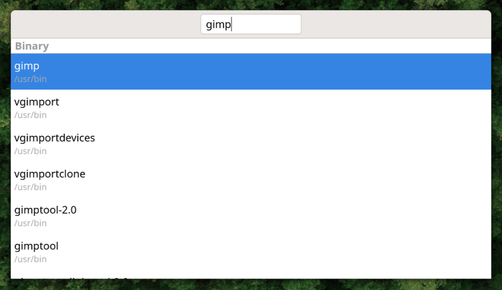
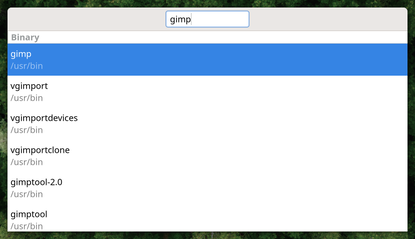
Use CSS for better styling of secondary labels

Changed region(s): [[0.0, 0.0, 1.0, 1.0]]

diff --git a/searchtool_gtk/gui/column_view.py b/searchtool_gtk/gui/column_view.py
@@ -85,10 +85,10 @@ class SearchToolColumnView(Generic[SearchItem], Gtk.ColumnView):
         if list_model.get_pending() == 0:
             GLib.idle_add(self.select_first)
 
-    def column_setup(self, factory: Gtk.SignalListItemFactory, cell: Gtk.ColumnViewCell):  # type: ignore
+    def column_setup(self, factory: Gtk.SignalListItemFactory, cell: Gtk.ColumnViewCell):  # type: ignore[name-defined]
         cell.set_child(SearchToolEntityWidget())
 
-    def column_bind(self, factory: Gtk.SignalListItemFactory, cell: Gtk.ColumnViewCell):  # type: ignore
+    def column_bind(self, factory: Gtk.SignalListItemFactory, cell: Gtk.ColumnViewCell):  # type: ignore[name-defined]
         item = cell.get_item().si
         widget = cell.get_child()
         widget.main_label.set_label(self.mode.get_main_item_label(item))
@@ -97,9 +97,8 @@ class SearchToolColumnView(Generic[SearchItem], Gtk.ColumnView):
         if secondary_text is None:
             widget.secondary_label.set_visible(False)
         else:
-            widget.secondary_label.set_markup(
-                f'<span foreground="darkgray" size="smaller">{GLib.markup_escape_text(secondary_text)}</span>'
-            )
+            widget.secondary_label.set_visible(True)
+            widget.secondary_label.set_label(secondary_text)
 
     def update_filter_text(self, text: str | None):
         self.filter_model.set_filter(SearchToolFilter(self.mode, text) if text is not None else None)

diff --git a/searchtool_gtk/gui/styling.py b/searchtool_gtk/gui/styling.py
@@ -1,0 +1,20 @@
+from gi.repository import Gtk, Gdk
+
+
+CSS = """
+label.secondary {
+  opacity: 0.5;
+}
+"""
+
+
+def apply_styling():
+    style_provider = Gtk.CssProvider()
+    style_provider.load_from_string(CSS)  # type: ignore[attr-defined]
+
+    if (display := Gdk.Display.get_default()):
+        Gtk.StyleContext.add_provider_for_display(
+            display,
+            style_provider,
+            Gtk.STYLE_PROVIDER_PRIORITY_APPLICATION
+        )

diff --git a/searchtool_gtk/gui/entity.py b/searchtool_gtk/gui/entity.py
@@ -18,5 +18,7 @@ class SearchToolEntityWidget(Gtk.Box):
         super().__init__(orientation=Gtk.Orientation.VERTICAL)
         self.main_label = Gtk.Label(halign=Gtk.Align.START)
         self.append(self.main_label)
+
         self.secondary_label = Gtk.Label(halign=Gtk.Align.START)
+        self.secondary_label.add_css_class('secondary')
         self.append(self.secondary_label)

diff --git a/searchtool_gtk/gui/__init__.py b/searchtool_gtk/gui/__init__.py
@@ -4,6 +4,10 @@ gi.require_version('Adw', '1')
 
 
 from .app import SearchToolApp  # noqa: E402
+from .styling import apply_styling  # noqa: E402
+
+
+apply_styling()
 
 
 __all__ = ['SearchToolApp']
